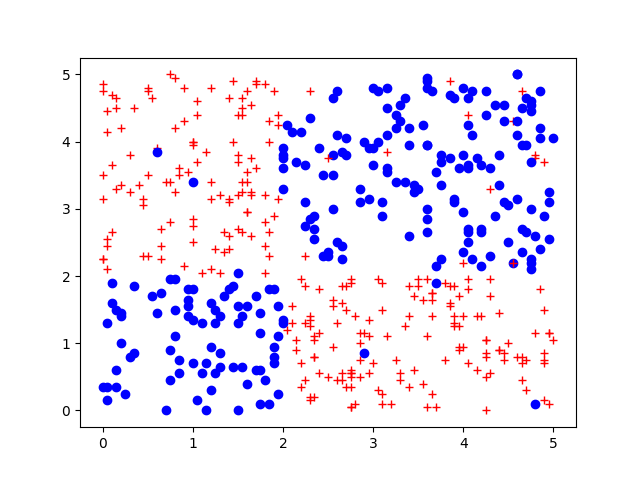
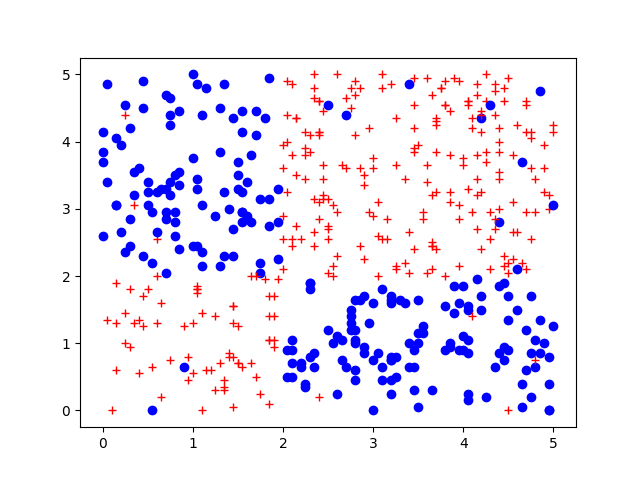
help

Changed region(s): [[0.1562, 0.125, 0.875, 0.875]]

diff --git a/generate_data.py b/generate_data.py
@@ -15,7 +15,7 @@ for x in range(500):
       color=spot[2]
       closeness=((spot[0]-point[0]/20)**2+(spot[1]-point[1]/20)**2)
   dice=random.randint(0,50)
-  if dice>closeness:
+  if dice<closeness:
     color=colors[colors.index(color)-1]
   plt.plot(point[0]/20, point[1]/20, color)
 plt.savefig("random_data")
